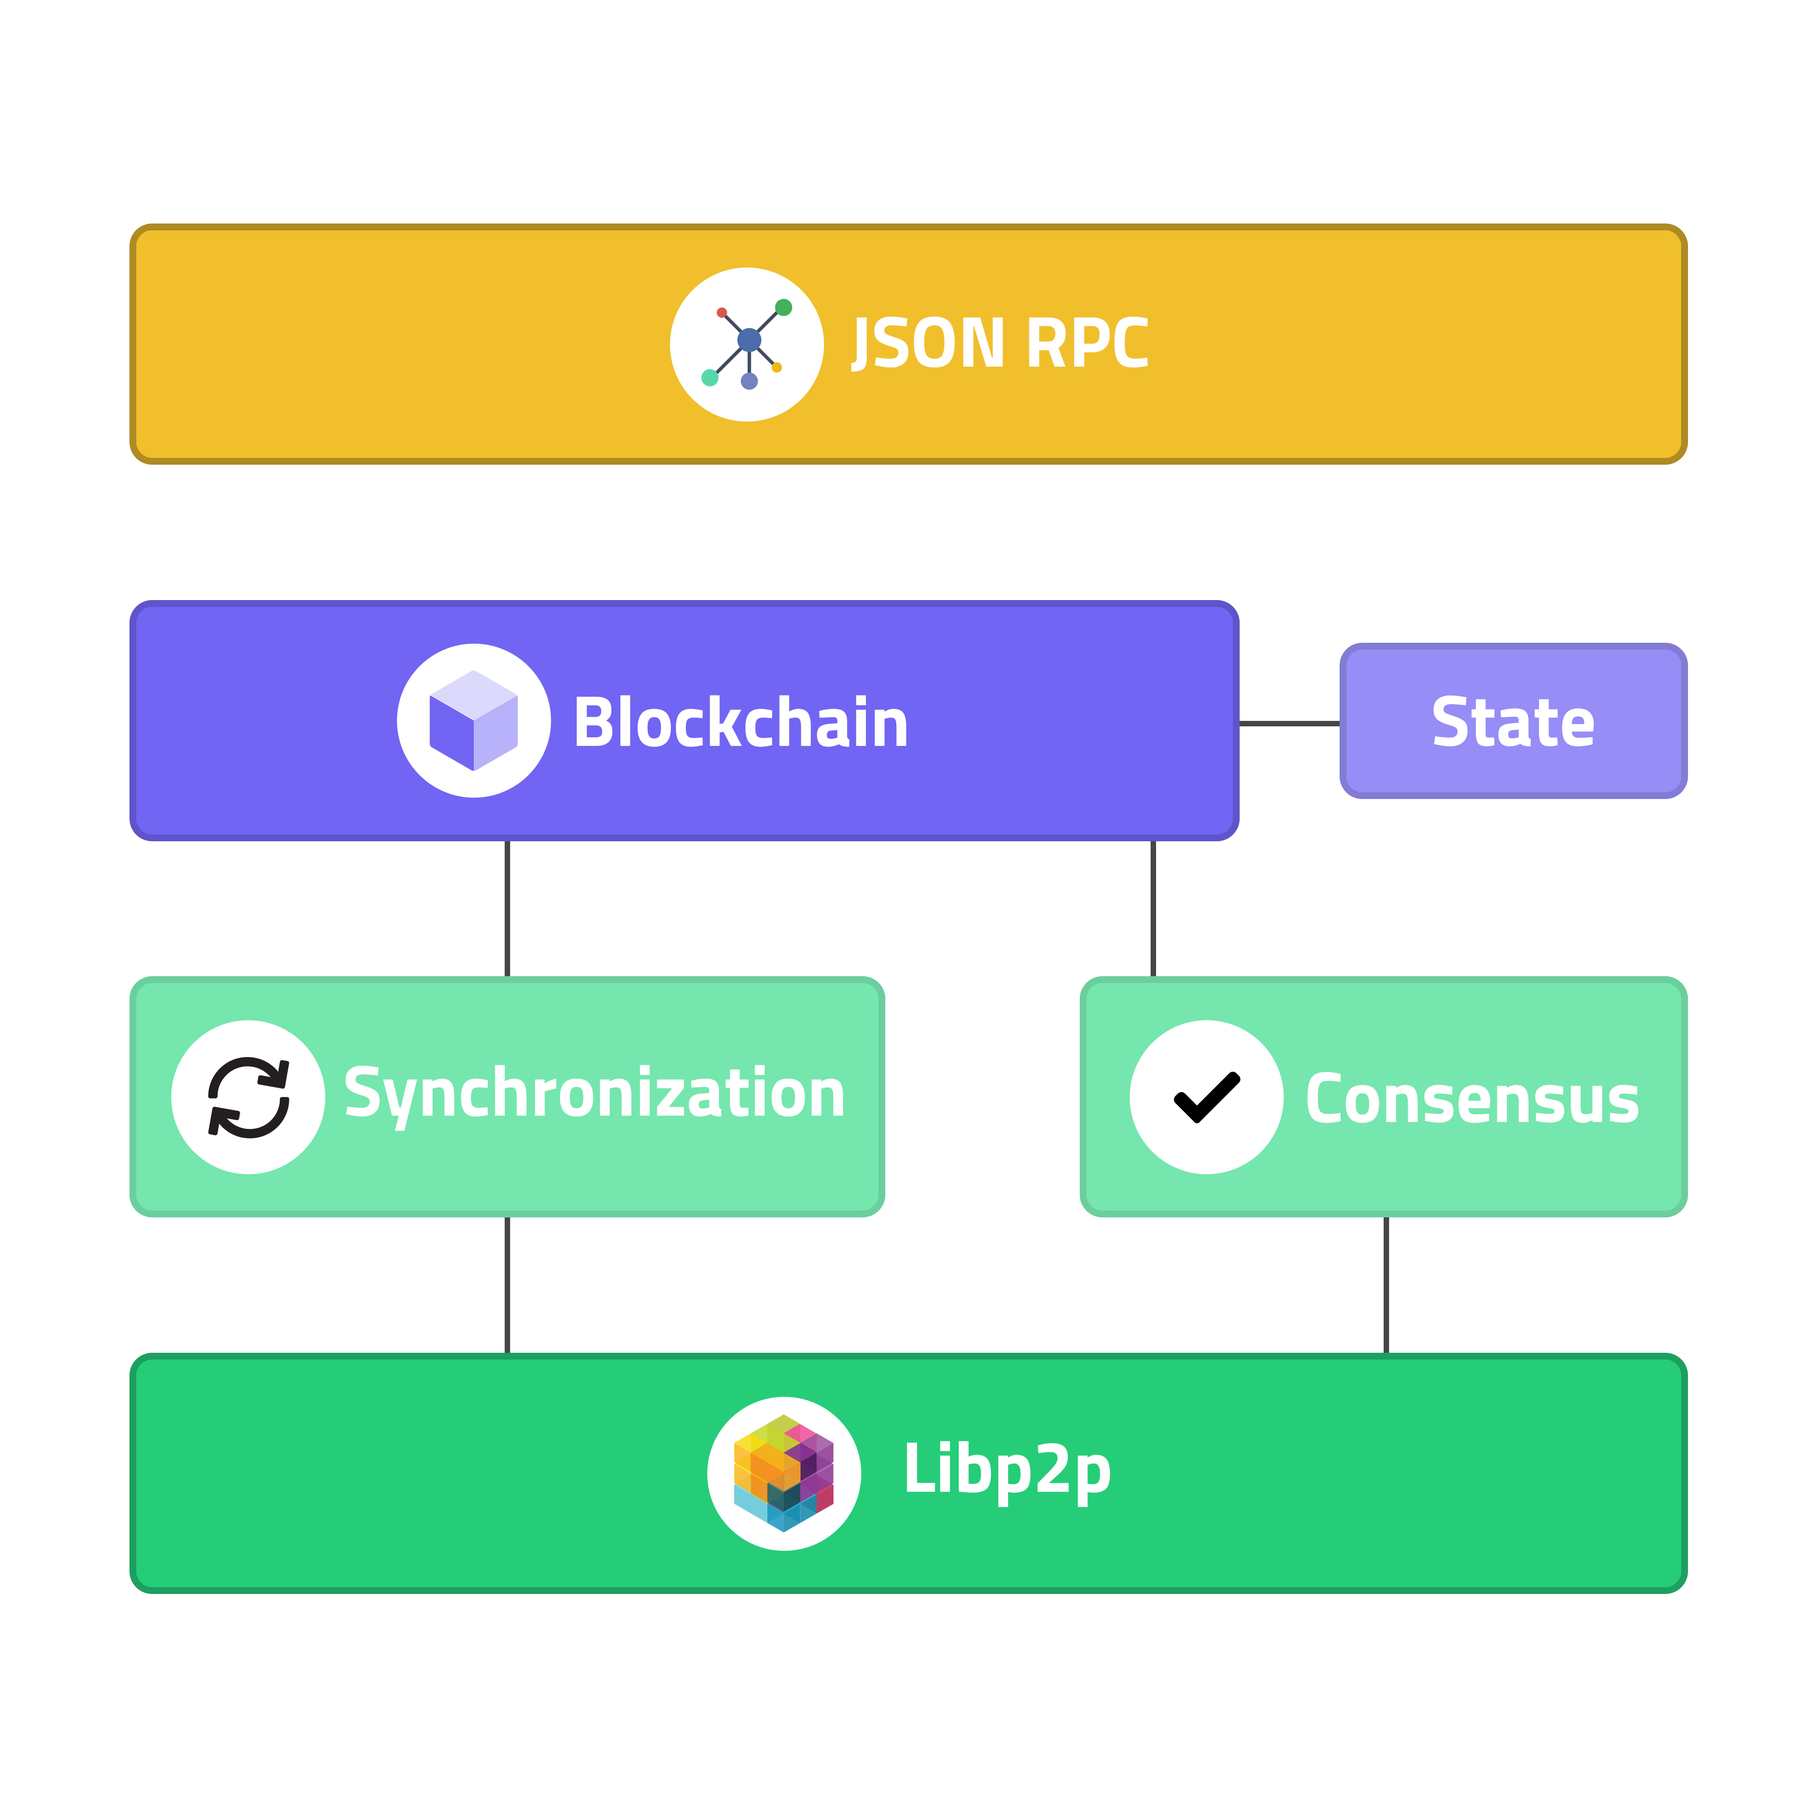
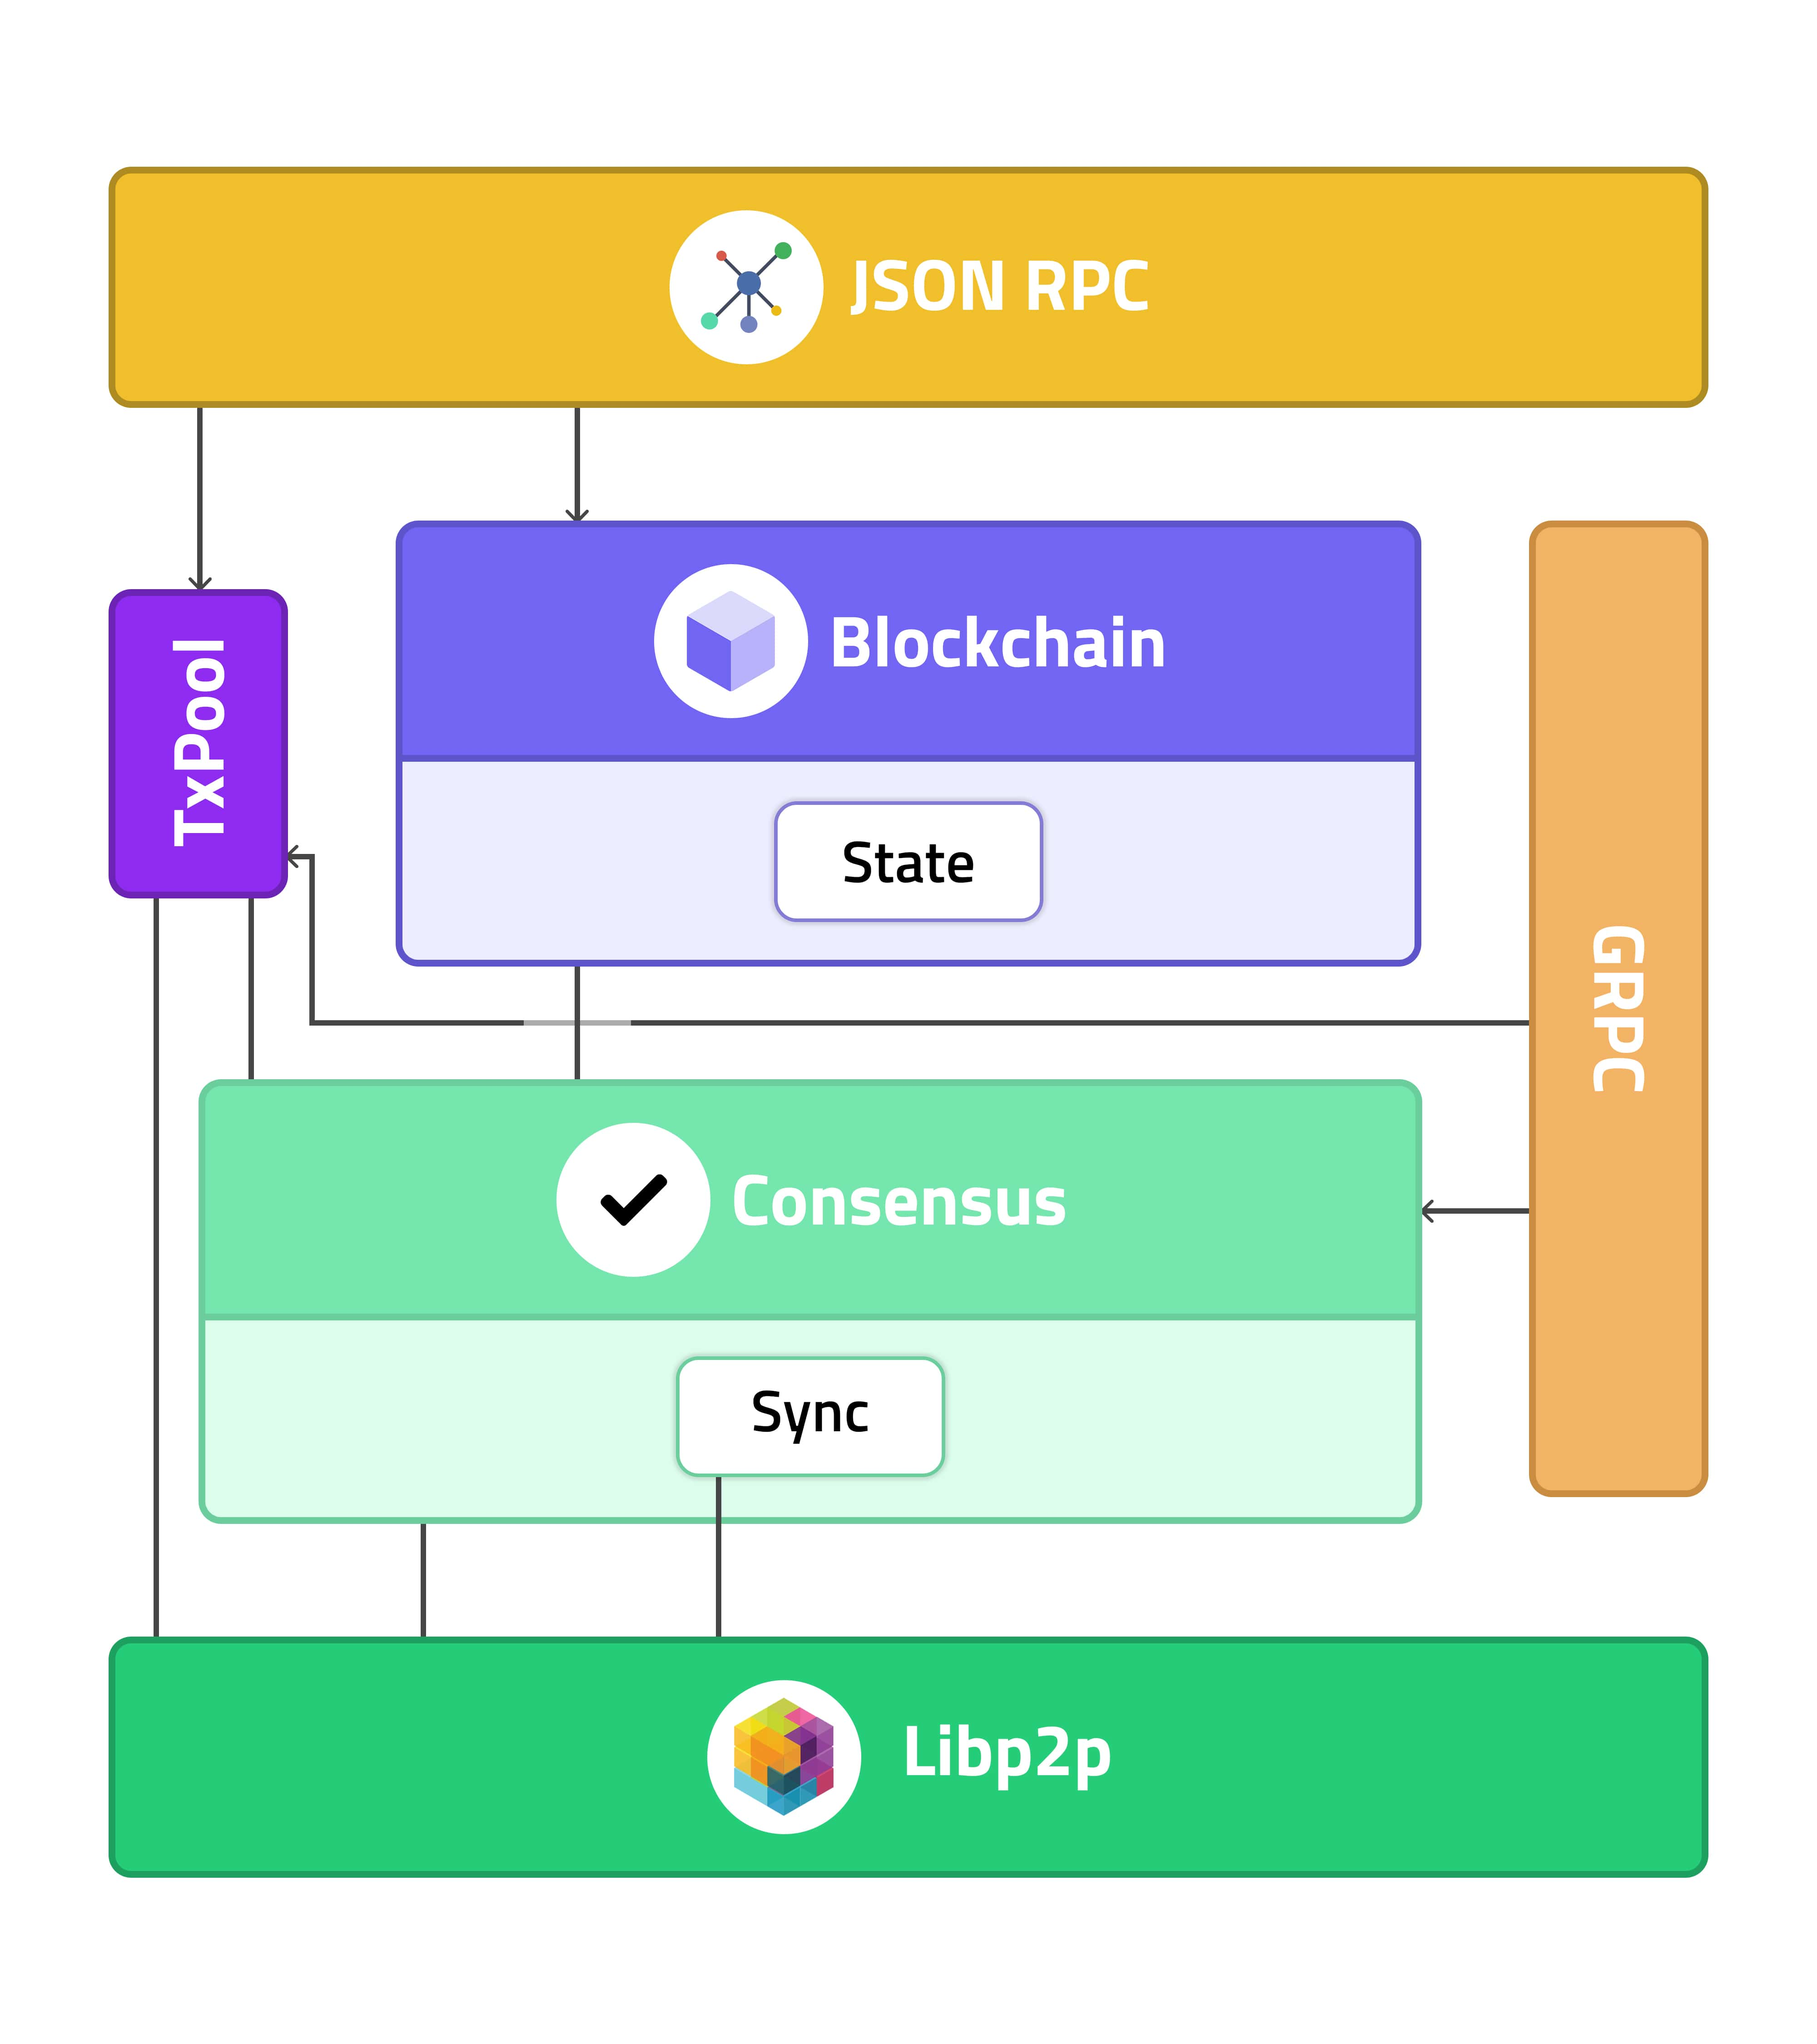
Update the architecture page, include the TxPool

diff --git a/sidebars.js b/sidebars.js
@@ -11,6 +11,7 @@ module.exports = {
         'reference/modules/minimal',
         'reference/modules/networking',
         'reference/modules/state',
+        'reference/modules/txpool',
         'reference/modules/protocol',
         'reference/modules/json-rpc',
         'reference/modules/sealer',
@@ -19,33 +20,32 @@ module.exports = {
         'reference/modules/types',
         'reference/modules/other-modules'
       ]
-    },
+    }
     // 'reference/reference-e2e'
   ],
   guides: [
     'guides/overview',
     // 'guides/exploring-clients',
-    'guides/ethereum-state',
-    {
-      type: 'category',
-      label: 'Networking basics',
-      items: [
-        'guides/networking/networking-libp2p',
-        'guides/networking/networking-grpc',
-        'guides/networking/networking-pb',
-        'guides/networking/networking-gossip',
-        'guides/networking/networking-discovery'
-      ]
-    },
-    {
-      type: 'category',
-      label: 'Consensus',
-      items: ['guides/consensus/consensus-ibft']
-    }
+    'guides/ethereum-state'
+    // {
+    //   type: 'category',
+    //   label: 'Networking basics',
+    //   items: [
+    //     'guides/networking/networking-libp2p',
+    //     'guides/networking/networking-grpc',
+    //     'guides/networking/networking-pb',
+    //     'guides/networking/networking-gossip',
+    //     'guides/networking/networking-discovery'
+    //   ]
+    // },
+    // {
+    //   type: 'category',
+    //   label: 'Consensus',
+    //   items: ['guides/consensus/consensus-ibft']
+    // }
   ],
   howTos: [
     'how-tos/howto-set-ibft',
-    // 'how-tos/howto-set-up-node',
     'how-tos/howto-query-operator',
     'how-tos/howto-query-json-rpc',
     'how-tos/howto-report-bug',

diff --git a/docs/reference/modules/txpool.md b/docs/reference/modules/txpool.md
@@ -1,0 +1,154 @@
+---
+id: txpool 
+title: TxPool
+---
+
+## Overview
+
+The TxPool module represents the transaction pool implementation, where transactions are added from different parts of
+the system. The module also exposes several useful features for node operators, which are covered below.
+
+## Operator Commands
+
+````go title="txpool/proto/operator.proto
+service TxnPoolOperator {
+    // Status returns the current status of the pool
+    rpc Status(google.protobuf.Empty) returns (TxnPoolStatusResp);
+
+    // AddTxn adds a local transaction to the pool
+    rpc AddTxn(AddTxnReq) returns (google.protobuf.Empty);
+
+    // Subscribe subscribes for new events in the txpool
+    rpc Subscribe(google.protobuf.Empty) returns (stream TxPoolEvent);
+}
+
+````
+
+Node operators can query these GRPC endpoints, as described in the **[CLI Commands](/docs/reference/cli-commands#transaction-pool-commands)** section.
+
+## Processing Transactions
+
+````go title="txpool/txpool.go"
+// AddTx adds a new transaction to the pool
+func (t *TxPool) AddTx(tx *types.Transaction) error {
+	if err := t.addImpl("addTxn", tx); err != nil {
+		return err
+	}
+
+	// broadcast the transaction only if network is enabled
+	// and we are not in dev mode
+	if t.topic != nil && !t.dev {
+		txn := &proto.Txn{
+			Raw: &any.Any{
+				Value: tx.MarshalRLP(),
+			},
+		}
+		if err := t.topic.Publish(txn); err != nil {
+			t.logger.Error("failed to topic txn", "err", err)
+		}
+	}
+
+	if t.NotifyCh != nil {
+		select {
+		case t.NotifyCh <- struct{}{}:
+		default:
+		}
+	}
+	return nil
+}
+
+func (t *TxPool) addImpl(ctx string, txns ...*types.Transaction) error {
+	if len(txns) == 0 {
+		return nil
+	}
+
+	from := txns[0].From
+	for _, txn := range txns {
+		// Since this is a single point of inclusion for new transactions both
+		// to the promoted queue and pending queue we use this point to calculate the hash
+		txn.ComputeHash()
+
+		err := t.validateTx(txn)
+		if err != nil {
+			return err
+		}
+
+		if txn.From == types.ZeroAddress {
+			txn.From, err = t.signer.Sender(txn)
+			if err != nil {
+				return fmt.Errorf("invalid sender")
+			}
+			from = txn.From
+		} else {
+			// only if we are in dev mode we can accept
+			// a transaction without validation
+			if !t.dev {
+				return fmt.Errorf("cannot accept non-encrypted txn")
+			}
+		}
+
+		t.logger.Debug("add txn", "ctx", ctx, "hash", txn.Hash, "from", from)
+	}
+
+	txnsQueue, ok := t.queue[from]
+	if !ok {
+		stateRoot := t.store.Header().StateRoot
+
+		// initialize the txn queue for the account
+		txnsQueue = newTxQueue()
+		txnsQueue.nextNonce = t.store.GetNonce(stateRoot, from)
+		t.queue[from] = txnsQueue
+	}
+	for _, txn := range txns {
+		txnsQueue.Add(txn)
+	}
+
+	for _, promoted := range txnsQueue.Promote() {
+		t.sorted.Push(promoted)
+	}
+	return nil
+}
+````
+The ***addImpl*** method is the bread and butter of the **TxPool** module. 
+It is the central place where transactions are added in the system, being called from the GRPC service, JSON RPC endpoints,
+and whenever the client receives a transaction through the **gossip** protocol.
+
+It takes in as an argument **ctx**, which just denotes the context from which the transactions are being added (GRPC, JSON RPC...). <br />
+The other parameter is the list of transactions to be added to the pool.
+
+The key thing to note here is the check for the **From** field within the transaction:
+* If the **From** field is **empty**, it is regarded as an unencrypted / unsigned transaction. These kinds of transactions are only
+accepted in development mode
+* If the **From** field is **not empty**, that means that it's a signed transaction, so signature verification takes place
+
+After all these validations, the transactions are considered to be valid.
+
+## Data structures
+
+````go title="txpool/txpool.go"
+// TxPool is a pool of transactions
+type TxPool struct {
+	logger hclog.Logger
+	signer signer
+
+	store      store
+	idlePeriod time.Duration
+
+	queue map[types.Address]*txQueue
+	sorted *txPriceHeap
+
+	// network stack
+	network *network.Server
+	topic   *network.Topic
+
+	sealing  bool
+	dev      bool
+	NotifyCh chan struct{}
+
+	proto.UnimplementedTxnPoolOperatorServer
+}
+````
+
+The fields in the TxPool object that can cause confusion are the **queue** and **sorted** lists.
+* **queue** - Heap implementation of a sorted list of account transactions (by nonce)
+* **sorted** - Sorted list for all the current promoted transactions (all executable transactions). Sorted by gas price

diff --git a/docs/how-tos/howto-propose-feature.md b/docs/how-tos/howto-propose-feature.md
@@ -2,3 +2,36 @@
 id: howto-propose-feature
 title: How to propose a new feature
 ---
+
+## Overview
+
+If you want to include a fix, or just contribute to the code, it is hightly encouraged you reach out to the team first. <br/>
+The Polygon SDK uses a relatively basic feature proposition template, that is concise and to the point.
+
+## PR Template
+
+### Description
+
+Please provide a detailed description of what was done in this PR
+
+### Changes include
+
+- [ ] Bugfix (non-breaking change that solves an issue)
+- [ ] New feature (non-breaking change that adds functionality)
+- [ ] Breaking change (change that is not backwards-compatible and/or changes current functionality)
+
+### Breaking changes
+
+Please complete this section if any breaking changes have been made, otherwise delete it
+
+### Checklist
+
+- [ ] I have assigned this PR to myself
+- [ ] I have added at least 1 reviewer
+- [ ] I have tested this code
+- [ ] I have updated the README and other relevant documents (guides...)
+- [ ] I have added sufficient documentation both in code, as well as in the READMEs
+
+### Additional comments
+
+Please post additional comments in this section if you have them, otherwise delete it

diff --git a/docs/reference/polygon-sdk-architecture.md b/docs/reference/polygon-sdk-architecture.md
@@ -42,7 +42,13 @@ We plan to add support for more consensus algorithms in the future (HotStuff, Te
 The Blockchain layer is the central layer that coordinates everything in the Polygon SDK system. It is covered in depth in the corresponding *Modules* section.
 
 ## State
-The State layer contains state transition logic. It deals with how the state changes when a new block is included. It is covered in depth in the corresponding *Modules* section.
+The State inner layer contains state transition logic. It deals with how the state changes when a new block is included. It is covered in depth in the corresponding *Modules* section.
 
 ## JSON RPC
 The JSON RPC layer is an API layer that dApp developers use to interact with the blockchain. It is covered in depth in the corresponding *Modules* section.
+
+## TxPool
+The TxPool layer represents the transaction pool, and it is closely linked with other modules in the system, as transactions can be added from multiple entry points.
+
+## GRPC
+The GRPC layer is vital for operator interactions. Through it, node operators can easily interact with the client, providing an enjoyable UX.

diff --git a/docs/how-tos/howto-report-bug.md b/docs/how-tos/howto-report-bug.md
@@ -2,3 +2,45 @@
 id: howto-report-bug
 title: How to report an issue
 ---
+
+## Overview
+
+Sometimes things break. <br />
+It's always better to let the team know about any issues you might be encountering.<br />
+On the Polygon SDK GitHub page, you can file a new issue, and start discussing it with the team.
+
+## Issue Template
+
+## [Subject of the issue]
+
+### Description
+
+Describe your issue in as much detail as possible here
+
+### Your environment
+
+* OS and version
+* version of the Polygon SDK
+* branch that causes this issue
+
+### Steps to reproduce
+
+* Tell us how to reproduce this issue <br />
+* Where the issue is, if you know <br />
+* Which commands triggered the issue, if any
+
+### Expected behaviour
+
+Tell us what should happen
+
+### Actual behaviour
+
+Tell us what happens instead
+
+### Logs
+
+Please paste any logs here that demonstrate the issue, if they exist
+
+### Proposed solution
+
+If you have an idea of how to fix this issue, please write it down here, so we can begin discussing it
